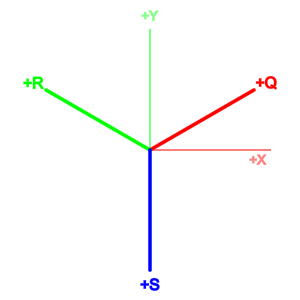
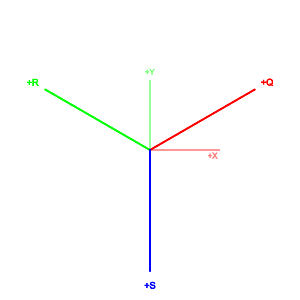
fix(hexes): align QRS conversions with hex center spacing

diff --git a/tests/Akeldov.Math.Hexes.Tests/Geometry/HexIndex/VectorQRSHexLayoutExtensionsTests.cs b/tests/Akeldov.Math.Hexes.Tests/Geometry/HexIndex/VectorQRSHexLayoutExtensionsTests.cs
@@ -7,22 +7,22 @@ namespace Akeldov.Math.Hexes.Tests.Geometry.HexIndex;
 
 public class VectorQRSHexLayoutExtensionsTests
 {
-    [TestCase(Layout.OddR, 3.5f, 2.5981f)]
-    [TestCase(Layout.EvenR, 3.5f, 2.5981f)]
-    [TestCase(Layout.OddQ, 1.7321f, 4f)]
-    [TestCase(Layout.EvenQ, 1.7321f, 4f)]
-    public void ToVectorXY_WithLayout_UsesNormalizedQrAxes(Layout layout, float expectedX, float expectedY)
+    [TestCase(Layout.OddR, 6.0622f, 4.5f)]
+    [TestCase(Layout.EvenR, 6.0622f, 4.5f)]
+    [TestCase(Layout.OddQ, 3f, 6.9282f)]
+    [TestCase(Layout.EvenQ, 3f, 6.9282f)]
+    public void ToVectorXY_WithLayout_UsesUnitRadiusQrAxes(Layout layout, float expectedX, float expectedY)
     {
         VectorXY actual = new VectorQRS(2f, 3f).ToVectorXY(layout);
 
         VectorAssert.AreEqual(actual, expectedX, expectedY);
     }
 
-    [TestCase(Layout.OddR, 1f, 0f, 0.5f, 0.866f)]
-    [TestCase(Layout.EvenR, 1f, 0f, 0.5f, 0.866f)]
-    [TestCase(Layout.OddQ, 0.866f, 0.5f, 0f, 1f)]
-    [TestCase(Layout.EvenQ, 0.866f, 0.5f, 0f, 1f)]
-    public void ToVectorXY_WithLayout_MapsUnitQrAxesToUnitXyVectors(
+    [TestCase(Layout.OddR, 1.7321f, 0f, 0.866f, 1.5f)]
+    [TestCase(Layout.EvenR, 1.7321f, 0f, 0.866f, 1.5f)]
+    [TestCase(Layout.OddQ, 1.5f, 0.866f, 0f, 1.7321f)]
+    [TestCase(Layout.EvenQ, 1.5f, 0.866f, 0f, 1.7321f)]
+    public void ToVectorXY_WithLayout_MapsUnitQrAxesToUnitRadiusCenterOffsets(
         Layout layout,
         float expectedQX,
         float expectedQY,
@@ -34,6 +34,30 @@ public class VectorQRSHexLayoutExtensionsTests
 
         VectorAssert.AreEqual(qAxis, expectedQX, expectedQY);
         VectorAssert.AreEqual(rAxis, expectedRX, expectedRY);
+    }
+
+    [TestCase(Layout.OddR)]
+    [TestCase(Layout.EvenR)]
+    [TestCase(Layout.OddQ)]
+    [TestCase(Layout.EvenQ)]
+    public void ToVectorXY_WithLayout_MapsEveryNeighborStepToCenterDistance(Layout layout)
+    {
+        var neighborSteps = new[]
+        {
+            new VectorQRS(1f, 0f),
+            new VectorQRS(0f, 1f),
+            new VectorQRS(-1f, 1f),
+            new VectorQRS(-1f, 0f),
+            new VectorQRS(0f, -1f),
+            new VectorQRS(1f, -1f)
+        };
+
+        foreach (VectorQRS neighborStep in neighborSteps)
+        {
+            Assert.That(
+                neighborStep.ToVectorXY(layout).Length,
+                Is.EqualTo(MathF.Sqrt(3f)).Within(VectorAssert.Epsilon));
+        }
     }
 
     [Test]
@@ -50,11 +74,11 @@ public class VectorQRSHexLayoutExtensionsTests
         Assert.Throws<ArgumentOutOfRangeException>(() => _ = new VectorQRS(q, r).ToVectorXY(Layout.OddR));
     }
 
-    [TestCase(Layout.OddR, 3.5f, 2.5981f)]
-    [TestCase(Layout.EvenR, 3.5f, 2.5981f)]
-    [TestCase(Layout.OddQ, 1.7321f, 4f)]
-    [TestCase(Layout.EvenQ, 1.7321f, 4f)]
-    public void ToVectorQRS_WithLayout_UsesNormalizedQrAxes(Layout layout, float x, float y)
+    [TestCase(Layout.OddR, 6.0622f, 4.5f)]
+    [TestCase(Layout.EvenR, 6.0622f, 4.5f)]
+    [TestCase(Layout.OddQ, 3f, 6.9282f)]
+    [TestCase(Layout.EvenQ, 3f, 6.9282f)]
+    public void ToVectorQRS_WithLayout_UsesUnitRadiusQrAxes(Layout layout, float x, float y)
     {
         VectorQRS actual = new VectorXY(x, y).ToVectorQRS(layout);
 

diff --git a/src/Akeldov.Math.Hexes/Geometry/HexIndex/VectorXYQrsLayoutExtensions.cs b/src/Akeldov.Math.Hexes/Geometry/HexIndex/VectorXYQrsLayoutExtensions.cs
@@ -11,10 +11,11 @@ namespace Akeldov.Math.Hexes.Geometry
     public static partial class VectorXYExtensions
     {
         /// <summary>
-        /// Converts the vector to the QRS representation using normalized hex-grid axes.
+        /// Converts the vector to the QRS representation using unit-radius hex-grid axes.
         /// </summary>
         /// <remarks>
-        /// The normalized basis maps each unit QR axis step to an XY vector with a length of one coordinate-space unit.
+        /// Each unit QRS neighbor step corresponds to the center-to-center distance of a unit-radius regular hexagon,
+        /// which is <c>sqrt(3)</c> coordinate-space units.
         /// </remarks>
         /// <param name="vector">The finite XY vector to convert.</param>
         /// <param name="layout">The hex layout used to select the QR axis orientation.</param>
@@ -24,26 +25,18 @@ namespace Akeldov.Math.Hexes.Geometry
             if (!vector.IsFinite)
                 throw new ArgumentOutOfRangeException(nameof(vector), vector, "Vector XY components must be finite.");
 
-            return ToVectorQRS(vector, 0.5f * Constants.Apothem2Radius, layout);
-        }
-
-        [MethodImpl(MethodImplOptions.AggressiveInlining)]
-        private static VectorQRS ToVectorQRS(VectorXY vector, float hexRadius, Layout layout)
-        {
-            float invertedHexRadius = 1f / hexRadius;
-
             switch (layout)
             {
                 case Layout.OddR:
                 case Layout.EvenR:
                     return new VectorQRS(
-                        (0.5773502588f * vector.X - 0.3333333333f * vector.Y) * invertedHexRadius,
-                        0.6666666666f * vector.Y * invertedHexRadius);
+                        0.5f * Constants.Apothem2Radius * vector.X - (1f / 3f) * vector.Y,
+                        (2f / 3f) * vector.Y);
                 case Layout.OddQ:
                 case Layout.EvenQ:
                     return new VectorQRS(
-                        0.6666666666f * vector.X * invertedHexRadius,
-                        (0.5773502588f * vector.Y - 0.3333333333f * vector.X) * invertedHexRadius);
+                        (2f / 3f) * vector.X,
+                        0.5f * Constants.Apothem2Radius * vector.Y - (1f / 3f) * vector.X);
                 default:
                     throw new ArgumentOutOfRangeException(nameof(layout));
             }

diff --git a/src/Akeldov.Math.Hexes/Geometry/HexIndex/VectorQRSHexLayoutExtensions.cs b/src/Akeldov.Math.Hexes/Geometry/HexIndex/VectorQRSHexLayoutExtensions.cs
@@ -11,10 +11,11 @@ namespace Akeldov.Math.Hexes.Geometry
     public static partial class VectorQRSExtensions
     {
         /// <summary>
-        /// Converts the vector to the XY representation using normalized hex-grid axes.
+        /// Converts the vector to the XY representation using unit-radius hex-grid axes.
         /// </summary>
         /// <remarks>
-        /// The normalized basis maps each unit QR axis step to an XY vector with a length of one coordinate-space unit.
+        /// Each unit QRS neighbor step maps to the center-to-center distance of a unit-radius regular hexagon,
+        /// which is <c>sqrt(3)</c> coordinate-space units.
         /// </remarks>
         /// <param name="vector">The finite QRS vector to convert.</param>
         /// <param name="layout">The hex layout used to select the QR axis orientation.</param>
@@ -26,18 +27,20 @@ namespace Akeldov.Math.Hexes.Geometry
                 float.IsNaN(vector.S) || float.IsInfinity(vector.S))
                 throw new ArgumentOutOfRangeException(nameof(vector), vector, "Vector QRS components must be finite.");
 
+            float hexApothem = Constants.Radius2Apothem;
+
             switch (layout)
             {
                 case Layout.OddR:
                 case Layout.EvenR:
                     return new VectorXY(
-                        vector.Q + 0.5f * vector.R,
-                        Constants.Radius2Apothem * vector.R);
+                        2f * hexApothem * vector.Q + hexApothem * vector.R,
+                        1.5f * vector.R);
                 case Layout.OddQ:
                 case Layout.EvenQ:
                     return new VectorXY(
-                        Constants.Radius2Apothem * vector.Q,
-                        vector.R + 0.5f * vector.Q);
+                        1.5f * vector.Q,
+                        2f * hexApothem * vector.R + hexApothem * vector.Q);
                 default:
                     throw new ArgumentOutOfRangeException(nameof(layout));
             }

diff --git a/tests/Akeldov.Math.Hexes.Tests/Rasterization/QrsBasisDocumentationSnapshotTests.cs b/tests/Akeldov.Math.Hexes.Tests/Rasterization/QrsBasisDocumentationSnapshotTests.cs
@@ -42,8 +42,8 @@ public class QrsBasisDocumentationSnapshotTests
             .AddTextLayer(font, "+R", p0 + r * 1.12f, 0.13f, RGBA16BitColor.Green, 0.01f, centered)
             .AddTextLayer(font, "+S", p0 + s * 1.12f, 0.13f, RGBA16BitColor.Blue, 0.01f, centered)
             .Rasterize(new RasterGeometry(
-                new PointXY(-1.25f, -1.25f),
-                new VectorXY(2.5f, 2.5f),
+                new PointXY(-2.15f, -2.15f),
+                new VectorXY(4.3f, 4.3f),
                 new VectorXYInt(300, 300)));
 
         string actualPath = Path.Combine(TestContext.CurrentContext.WorkDirectory, fileName);

diff --git a/docs/Hexes/vectors.md b/docs/Hexes/vectors.md
@@ -24,7 +24,8 @@ The default positive QRS basis directions are:
 ```
 
 After conversion to Spatial2D coordinates, each of these basis vectors has a
-length of `1.0`.
+length of `sqrt(3)`, the center-to-center distance of neighboring regular
+hexagons with radius `1.0`.
 
 ### `OddR` and `EvenR`
 
@@ -56,7 +57,7 @@ scene
     .AddTextLayer(font, "+Q", p0 + q * 1.12f, 0.13f, RGBA16BitColor.Red, 0.01f, centered)
     .AddTextLayer(font, "+R", p0 + r * 1.12f, 0.13f, RGBA16BitColor.Green, 0.01f, centered)
     .AddTextLayer(font, "+S", p0 + s * 1.12f, 0.13f, RGBA16BitColor.Blue, 0.01f, centered)
-    .Rasterize(new RasterGeometry(new PointXY(-1.25f, -1.25f), new VectorXY(2.5f, 2.5f), new VectorXYInt(300, 300)))
+    .Rasterize(new RasterGeometry(new PointXY(-2.15f, -2.15f), new VectorXY(4.3f, 4.3f), new VectorXYInt(300, 300)))
     .SaveAsPng("qrs-basis-pointy-top.png");
 ```
 
@@ -92,7 +93,7 @@ scene
     .AddTextLayer(font, "+Q", p0 + q * 1.12f, 0.13f, RGBA16BitColor.Red, 0.01f, centered)
     .AddTextLayer(font, "+R", p0 + r * 1.12f, 0.13f, RGBA16BitColor.Green, 0.01f, centered)
     .AddTextLayer(font, "+S", p0 + s * 1.12f, 0.13f, RGBA16BitColor.Blue, 0.01f, centered)
-    .Rasterize(new RasterGeometry(new PointXY(-1.25f, -1.25f), new VectorXY(2.5f, 2.5f), new VectorXYInt(300, 300)))
+    .Rasterize(new RasterGeometry(new PointXY(-2.15f, -2.15f), new VectorXY(4.3f, 4.3f), new VectorXYInt(300, 300)))
     .SaveAsPng("qrs-basis-flat-top.png");
 ```
 
